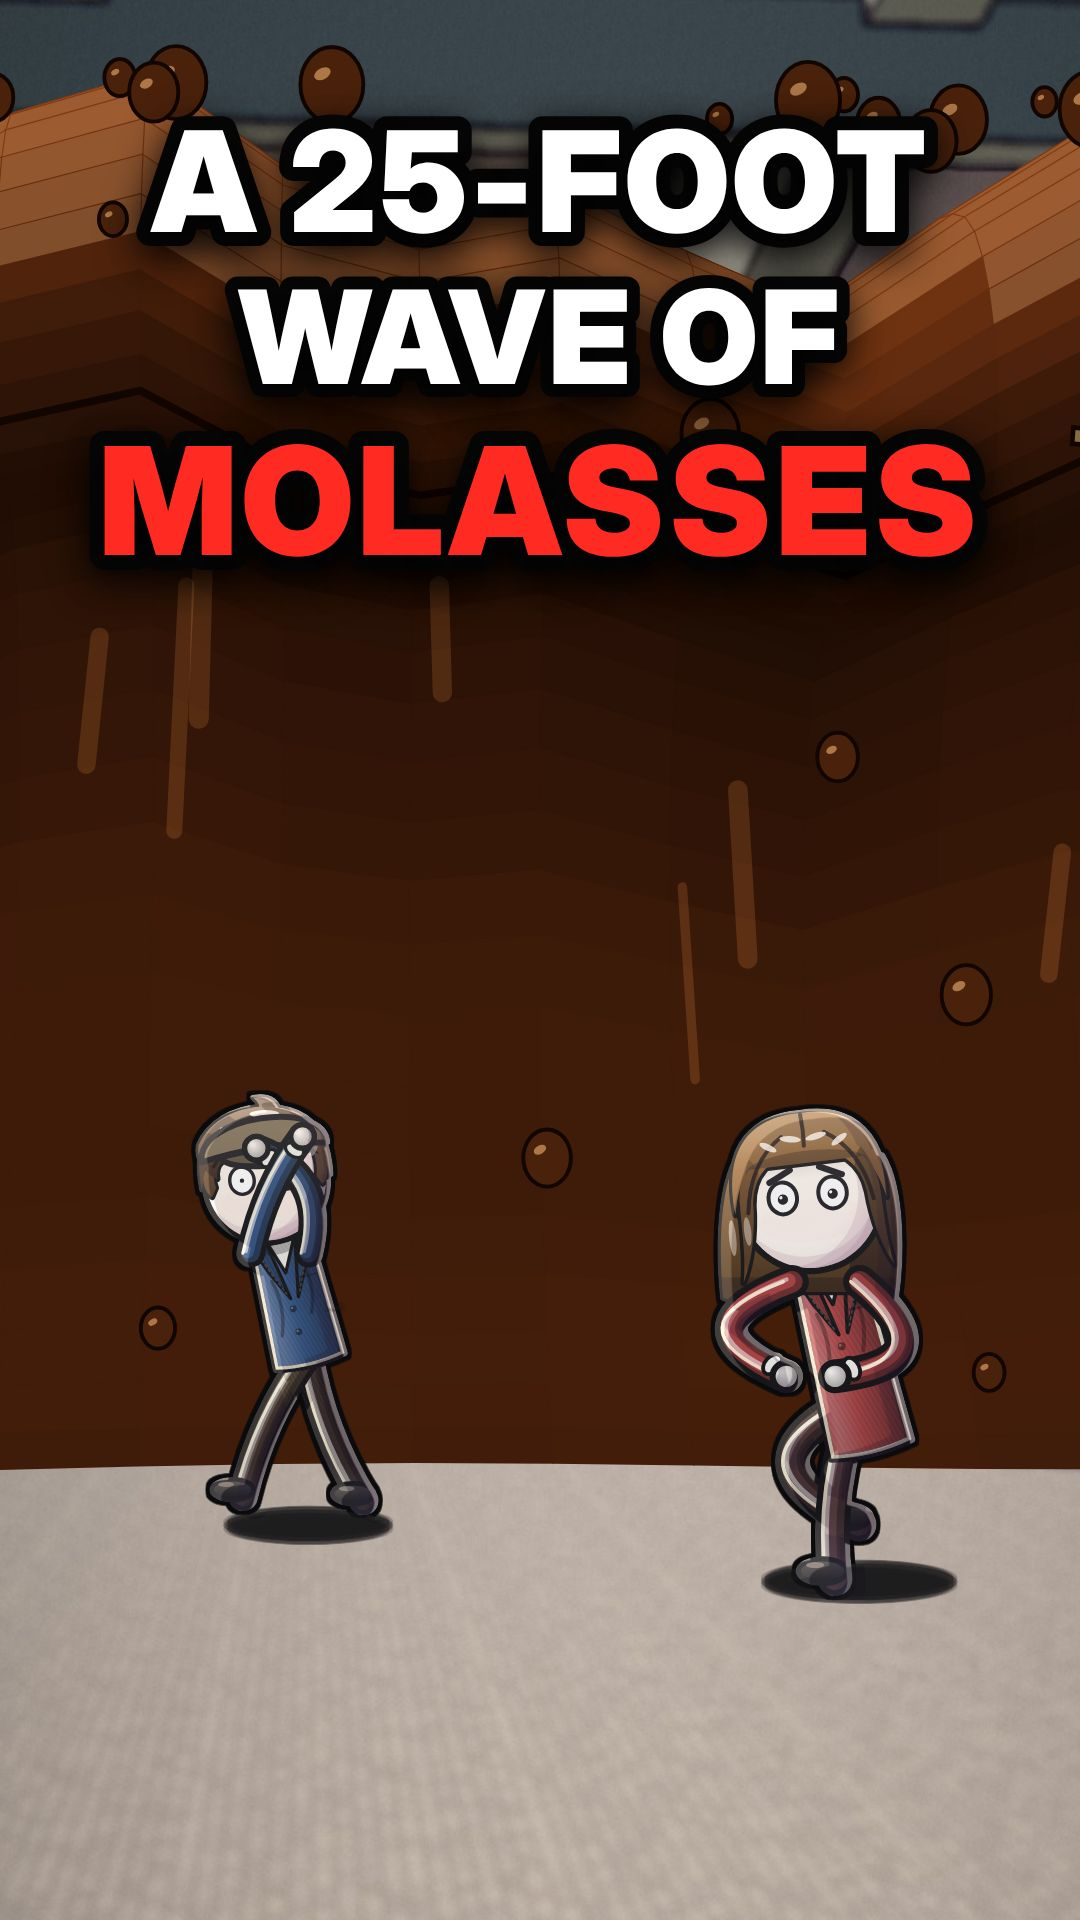
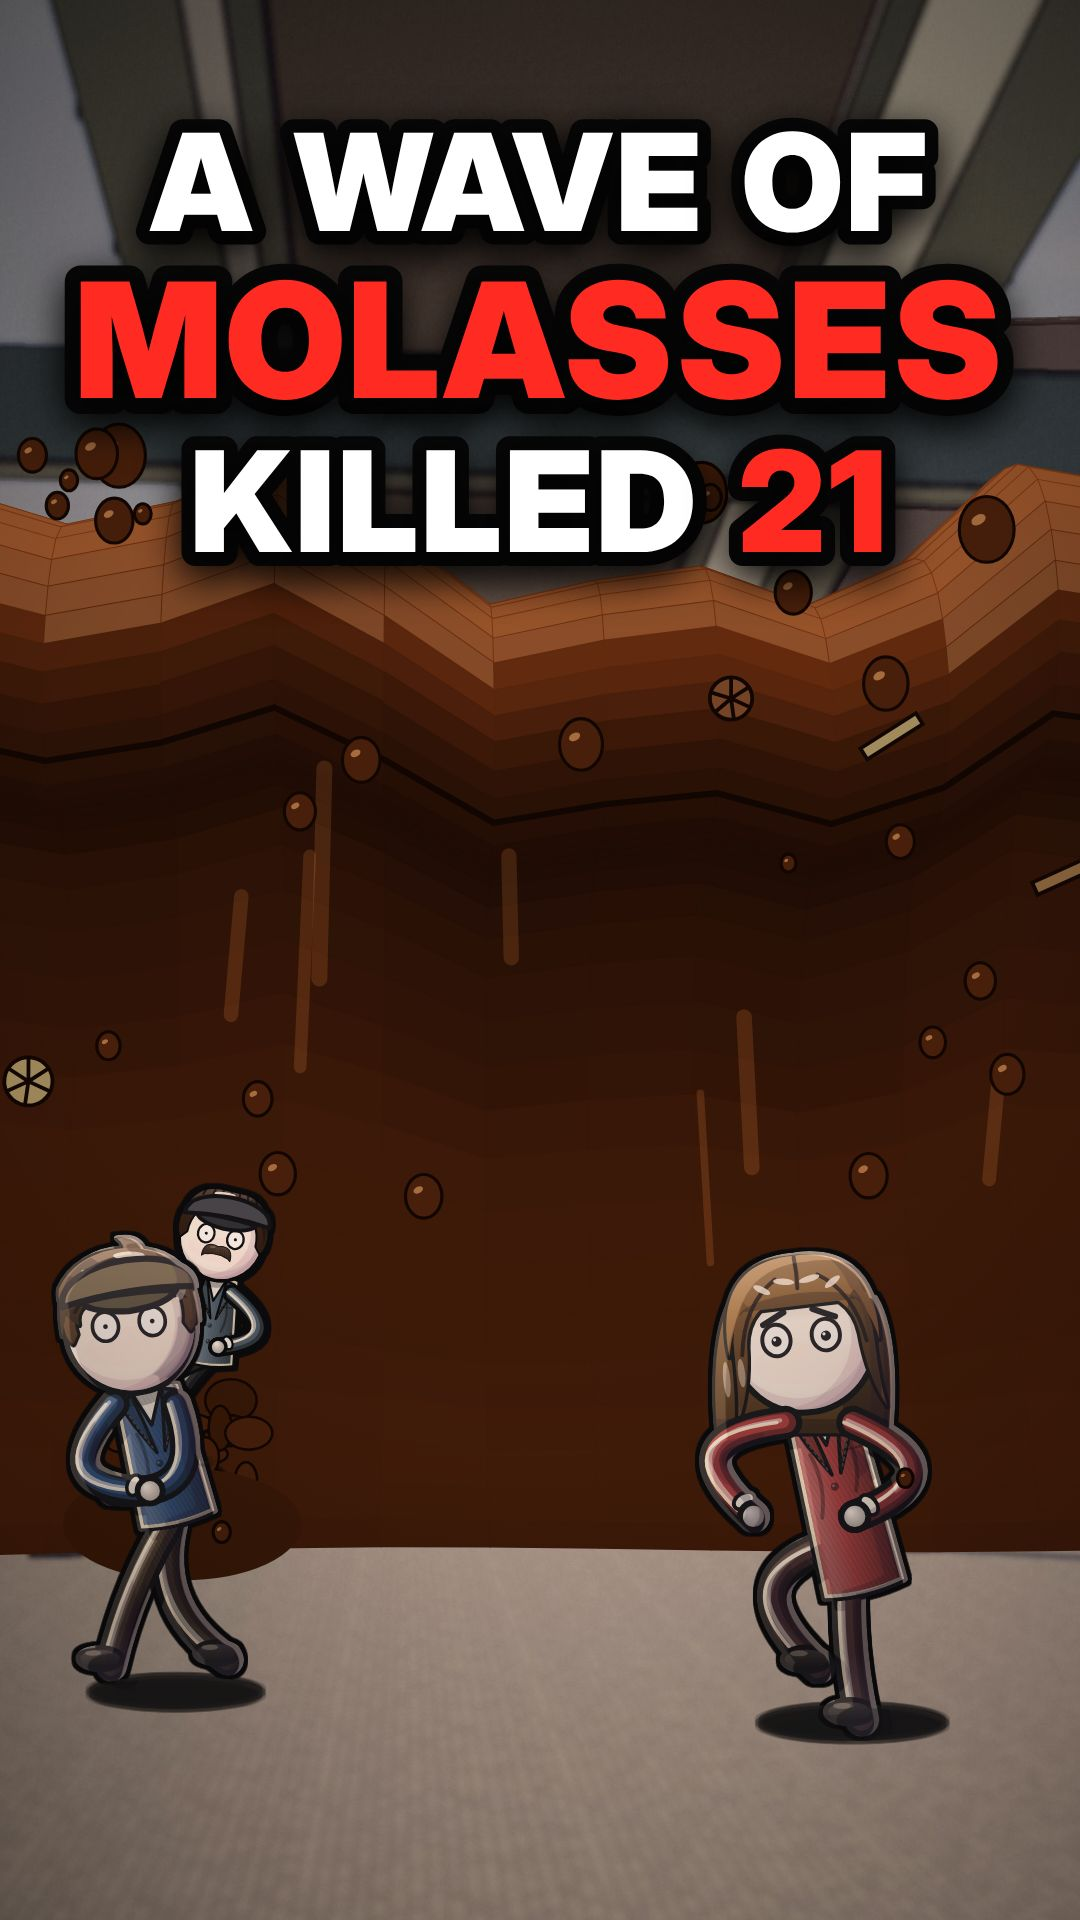
Molasses: realistic engulf/carried animation, new thumbnail
Claude-Session: https://claude.ai/code/session_01WmZXnGWPQwk3MGbLdxyYXF

diff --git a/storybit/projects/molasses/ml_shots.js b/storybit/projects/molasses/ml_shots.js
@@ -15,8 +15,9 @@ function wave3(c,t,fx,h,o={}){const za=o.za??-7,zb=o.zb??7,n=o.n??18,tail=o.tail
   const Q=[];const K=grid[0].length;for(let i=0;i<n;i++)for(let k=0;k<K-1;k++){const a=grid[i][k],b=grid[i][k+1],cc=grid[i+1][k+1],dd=grid[i+1][k];const m=[(a[0]+b[0]+cc[0]+dd[0])/4,(a[1]+b[1]+cc[1]+dd[1])/4,(a[2]+b[2]+cc[2]+dd[2])/4];
     const dist=Math.hypot(m[0]-cam[0],m[1]-cam[1],m[2]-cam[2]);const dx=b[0]-a[0],dy=b[1]-a[1];const L=Math.hypot(dx,dy)||1;const ny=dx/L;// up-facing → lit
     Q.push({pts:[a,b,cc,dd],dist,lit:ny,k,ht:m[1]/h});}
+  for(const a of (o.actors||[])){Q.push({actor:a,dist:Math.hypot(a.pos[0]-cam[0],a.pos[1]+1-cam[1],a.pos[2]-cam[2])-(a.bias||0)});}
   Q.sort((p,q)=>q.dist-p.dist);c.save();c.lineJoin='round';
-  for(const q of Q){const P=q.pts.map(p=>pp(p));if(P.some(p=>p.w<=0.2))continue;const l=clamp(0.35+q.lit*0.45+q.ht*0.35);const r=Math.round(lerp(30,128,l*l)),g=Math.round(lerp(12,58,l*l)),bb=Math.round(lerp(4,20,l*l));
+  for(const q of Q){if(q.actor){c.restore();q.actor.draw();c.save();c.lineJoin='round';continue;}const P=q.pts.map(p=>pp(p));if(P.some(p=>p.w<=0.2))continue;const l=clamp(0.35+q.lit*0.45+q.ht*0.35);const r=Math.round(lerp(30,128,l*l)),g=Math.round(lerp(12,58,l*l)),bb=Math.round(lerp(4,20,l*l));
     c.fillStyle=`rgb(${r},${g},${bb})`;c.strokeStyle=c.fillStyle;c.lineWidth=1.5;c.beginPath();P.forEach((p,i)=>i?c.lineTo(p.x,p.y):c.moveTo(p.x,p.y));c.closePath();c.fill();c.stroke();
     if(q.ht>0.85&&q.lit>0.2){c.fillStyle='rgba(255,210,150,0.22)';c.fill();}}
   // dark outline along the crest + glossy streaks on the face
@@ -32,6 +33,27 @@ function wave3(c,t,fx,h,o={}){const za=o.za??-7,zb=o.zb??7,n=o.n??18,tail=o.tail
 // someone caught in the wave: tumbling, carried along, half covered in molasses
 function swept(c,kind,x,y,z,t,o={}){const rot=o.rot??t*3.2;const r=who(c,kind,[x,y,z],BF('shock','up','scream',{seed:o.seed||1,rot,hf:[50+Math.sin(t*9)*20,-80],hb:[-50,-70+Math.cos(t*8)*20],run:1,ph:t*16,f:o.f||1}));
   const p=pp([x,y,z]);c.save();for(let k=0;k<6;k++){const a=k*1.1+t*2;c.fillStyle=k%2?'#4a220c':'#3a1a08';c.beginPath();c.ellipse(p.x+Math.cos(a)*60*p.s,p.y-40*p.s+Math.sin(a)*30*p.s,(40+k*6)*p.s,(26+k*3)*p.s,a,0,TAU);c.fill();}c.restore();return r;}
+// someone the wave catches from behind: runs → lifted, pitched forward, arms thrown up, splash climbing them → swallowed (front face covers them in the depth sort)
+function victimActor(c,kind,x,z,fx,t,o={}){const dx=fx-x;const k=clamp((dx+3.2)/3.2);const lift=k*k*1.3,pitch=k*0.9;
+  return {pos:[x,0,z],bias:0.3,draw:()=>{const r=who(c,kind,[x+k*1.2,lift,z],F(k>0?'shock':'wide','up','scream',{seed:o.seed||1,run:1,ph:t*(15-k*8),f:o.f??-1,rot:(o.f??-1)*-pitch*0.6+Math.sin(t*9)*0.08*k,
+      hf:undefined,hb:undefined}));
+    if(k>0){const g=pp([x,0,z]);for(let i=0;i<14;i++){const ph=(t*2+hash(i*3.1))%1;const bx=g.x+(hash(i)-0.5)*180*g.s,by=g.y-(ph*lift*170+ph*60)*g.s*1.0-k*40*g.s;c.fillStyle=i%2?'#4a220c':'#3a1a08';c.strokeStyle='#120602';c.lineWidth=2;
+        c.beginPath();c.ellipse(bx,by,(10+hash(i*5)*18)*g.s*(0.5+k),(9+hash(i*7)*14)*g.s*(0.5+k),0,0,TAU);c.fill();c.stroke();}
+      const sp=pp([x,lift*0.6,z]);c.fillStyle='#3a1a08';c.beginPath();c.ellipse(sp.x,sp.y+40*sp.s,(90+k*70)*sp.s,(30+k*50)*sp.s,0,0,TAU);c.fill();}}};}
+// after being swallowed: the head and a reaching hand break the surface on top of the crest, then go under again
+function crestRider(c,kind,fx,h,z,t,o={}){const cr=pp([fx-1.4,h*0.98,z]);if(cr.w<=0.2)return;const bob=Math.sin(t*5+(o.seed||0))*0.25;const r0=pp([fx-1.4,h*0.98-1.2+bob,z]);
+  c.save();c.beginPath();c.rect(-3000,-3000,8000,cr.y+3000+6*cr.s);c.clip();const r=who(c,kind,[fx-1.4,h*0.98-1.35+bob,z],F('shock','up','scream',{seed:o.seed||1,rot:Math.sin(t*3)*0.5+(o.rot||0),hf:[60,-160+Math.sin(t*9)*20],hb:[-50,-120]}));c.restore();
+  c.save();c.fillStyle='#4a220c';c.strokeStyle='#120602';c.lineWidth=2;for(let i=0;i<5;i++){const a=i*1.3+t*3;c.beginPath();c.ellipse(cr.x+Math.cos(a)*50*cr.s,cr.y+Math.sin(a)*10*cr.s,22*cr.s,12*cr.s,0,0,TAU);c.fill();c.stroke();}c.restore();return r;}
+// carried in the flood after the wave: body under the surface, tilted, drifting with the current; dunks under and claws back up; molasses coats head and arms
+function carried(c,kind,pos,surf,t,o={}){const sd=o.seed||1;const dunk=Math.max(0,Math.sin(t*1.6+sd*2))**6;const dd=lerp(o.d??0.85,1.3,dunk);const g=pp([pos[0],surf,pos[2]]);
+  c.save();c.beginPath();c.rect(-3000,-3000,8000,g.y+3000+2*g.s);c.clip();const r=who(c,kind,[pos[0],surf-dd,pos[2]],F(dunk>0.5?'squeeze':'shock','up','scream',{seed:sd,rot:(o.tilt??0.35)+Math.sin(t*2.2+sd)*0.18,f:o.f||1,
+    hf:[50+Math.sin(t*7+sd)*25,-175+Math.cos(t*6)*15],hb:[-60+Math.cos(t*8+sd)*20,-80+Math.sin(t*5)*25]}));c.restore();
+  if(r){c.fillStyle='rgba(58,26,8,0.85)';for(const hp of [r.hf,r.hb]){if(hp.y>g.y)continue;c.beginPath();c.ellipse(hp.x,hp.y+8*g.s,11*g.s,16*g.s,0,0,TAU);c.fill();}
+    if(r.hc&&r.hc.y<g.y){c.beginPath();c.ellipse(r.hc.x,r.hc.y-14*g.s,24*g.s,12*g.s,0,0,TAU);c.fill();for(let i=0;i<3;i++){const dl=((t*0.8+i*0.33)%1);c.beginPath();c.ellipse(r.hc.x-14*g.s+i*14*g.s,r.hc.y-6*g.s+dl*30*g.s,3*g.s,6*g.s,0,0,TAU);c.fill();}}}
+  c.save();const w=60*g.s;c.fillStyle='#2e1406';c.beginPath();c.ellipse(g.x,g.y+2*g.s,w*1.4,w*0.34,0,0,TAU);c.fill();c.strokeStyle='rgba(255,170,90,0.35)';c.lineWidth=3;c.beginPath();c.ellipse(g.x,g.y,w*1.4,w*0.34,0,Math.PI*1.1,Math.PI*1.9);c.stroke();
+  for(let i=0;i<4;i++){const ph=(t*1.2+i/4)%1;c.strokeStyle=`rgba(255,170,90,${0.3*(1-ph)})`;c.lineWidth=3;const tx=pp([pos[0]-0.4-ph*2.4,surf,pos[2]]);c.beginPath();c.moveTo(tx.x,tx.y-6*g.s);c.lineTo(tx.x-40*g.s,tx.y);c.stroke();}
+  if(dunk>0.45){c.save();c.translate(g.x+10*g.s,g.y);c.rotate(Math.sin(t*6)*0.2);c.strokeStyle='#0b0b0d';c.lineWidth=16*g.s;c.lineCap='round';seg(c,0,0,0,-90*g.s*dunk);c.strokeStyle='#3a1a08';c.lineWidth=11*g.s;seg(c,0,0,0,-90*g.s*dunk);c.fillStyle='#f2efe8';c.strokeStyle='#0b0b0d';c.lineWidth=3;c.beginPath();c.arc(0,-96*g.s*dunk,11*g.s,0,TAU);c.fill();c.stroke();c.fillStyle='rgba(58,26,8,0.8)';c.beginPath();c.arc(0,-92*g.s*dunk,8*g.s,0,Math.PI);c.fill();c.restore();}
+  if(dunk>0.3){for(let i=0;i<6;i++){const a=i/6*TAU+t*4;c.fillStyle='#4a220c';c.beginPath();c.arc(g.x+Math.cos(a)*w,g.y-Math.abs(Math.sin(a))*30*g.s*dunk,8*g.s,0,TAU);c.fill();}}c.restore();return r;}
 // ---------- props / ui ----------
 function tagC(c,x,y,s,k=1,col='#ffd23f'){if(k<=0)return;c.save();c.globalAlpha=clamp(k*2);c.translate(x,y);c.scale(lerp(0.7,1,eo(clamp(k))),lerp(0.7,1,eo(clamp(k))));c.font='900 40px "Inter Display"';c.letterSpacing='5px';const w=c.measureText(s).width+60;
   c.fillStyle='rgba(12,10,8,0.86)';c.beginPath();c.roundRect(-w/2,-38,w,76,38);c.fill();c.strokeStyle=col;c.lineWidth=4;c.stroke();c.fillStyle='#fff';c.textAlign='center';c.textBaseline='middle';c.fillText(s,0,3);c.restore();}
@@ -56,9 +78,9 @@ function tankCut(c,id,fill,t){// x-ray cut-out in the tank wall showing the mola
 const F=(e,b,m,o)=>BF(e,b,m,o);
 // =============== shots ===============
 // 0 · "A 25-foot wave just swallowed a city street…" people turn, run at camera; the wave rolls under the El and scoops up a man
-XM.hook=(c,t,u,d)=>{const h=HH(t,10);camAt(c,'ne_street',[0,3,-1],1.05+u*0.02,{ox:h.ox,oy:60+h.oy});const fx=-18+u*7;molassesSheet(c,t,-60,fx-1,-7,7,0.9,{edge:false});wave3(c,t,fx,7.6,{debris:6});
-  const ty=clamp((u-0.4)/0.6);swept(c,'dock2',fx+0.6,2.6+Math.sin(u*4)*0.6,-0.5,t,{seed:3});
-  cast(c,[['boy',[2-u*1.2,0,0.8],F(ty>0.5?'wide':'dot','up',ty>0.5?'scream':'o',{seed:1,run:ty>0?1:0,ph:t*15,f:-1,back:ty<0.3,hf:[40,-70],hb:[-40,-60]})],['dock',[6-u*1.3,0,-1.6],F('shock','up','scream',{seed:2,run:1,ph:t*14+1,f:-1})],['girl',[9-u*1.1,0,1.8],F('wide','worried','scream',{seed:4,run:1,ph:t*13+2,f:-1,hf:[30,-80],hb:[-30,-80]})]]);
+XM.hook=(c,t,u,d)=>{const h=HH(t,10);camAt(c,'ne_street',[0,3,-1],1.05+u*0.02,{ox:h.ox,oy:-50+h.oy});const fx=-14+u*6.5;molassesSheet(c,t,-60,fx-1,-7,7,0.9,{edge:false});
+  const A=[victimActor(c,'dock2',-2.5+u*1.1,-0.6,fx,t,{seed:3}),victimActor(c,'boy',3.2+u*1.4,0.9,fx,t,{seed:1}),victimActor(c,'dock',6.8+u*1.3,-1.8,fx,t,{seed:2}),victimActor(c,'girl',10+u*1.2,1.9,fx,t,{seed:4})];
+  wave3(c,t,fx,7.6,{debris:6,actors:A});if(fx>-1)crestRider(c,'dock2',fx,7.6,-0.6,t,{seed:3});
   c.restore();if(u<0.12)flash(c,1-u/0.12,'#000');lens(c,t,{v:0.6});};
 // 1 · "and it was made of syrup." a fat drip splats on a man's cap; he wipes it, sniffs his fingers
 XM.syrup=(c,t,u,d)=>{camAt(c,'ne_low',[2,1.6,0],1.55,{oy:-80});const P=[2,0,0];const fall=clamp(u/0.45);const r=who(c,'dock',P,F(fall<1?'dot':'wide','up',fall<1?'flat':'o',{seed:5,hf:u>0.6?[16,-150]:[14,90],hb:[-12,92],look:[0,-3]}));
@@ -109,8 +131,10 @@ XM.split=(c,t,u,d)=>{const h=HH(t,14);camAt(c,'ne_tank',[-24,7,-2],1.0,{ox:h.ox,
   for(let i=0;i<40;i++){const ph=(t*1.2+hash(i))%1,y=lerp(A.y,B.y,hash(i*3)*k);const x=A.x+(hash(i*5)-0.3)*30;c.fillStyle='#4a220c';c.strokeStyle='#120602';c.lineWidth=2;const bx=x+ph*400*(hash(i*7)+0.3),by=y+ph*ph*600-ph*120;c.beginPath();c.ellipse(bx,by,(16+hash(i)*26)*(0.4+ph),(14+hash(i)*20)*(0.4+ph),0,0,TAU);c.fill();c.stroke();}
   c.restore();flash(c,clamp(1-u/0.2)*0.6);lens(c,t,{v:0.65});};
 // 13 · "And a brown wave, 25 feet tall, rushed out at 35 miles per hour." side view: the wave crosses the street, a man for scale; height + speed
-XM.wave=(c,t,u,d)=>{const h=HH(t,9);camAt(c,'ne_street',[0,3,-1],1.04,{ox:h.ox,oy:60+h.oy});const fx=-30+u*5;molassesSheet(c,t,-60,fx-1,-7,7,0.9,{edge:false});wave3(c,t,fx,7.6,{debris:5});
-  const run=clamp((u-1.6)/0.3);cast(c,[['dock2',[4-run*(u-1.6)*1.5,0,0.4],F(run>0?'shock':'wide','up',run>0?'scream':'o',{seed:6,run:run>0?1:0,ph:t*15,f:-1,back:run<=0,hf:run>0?undefined:[30,-60],hb:run>0?undefined:[-30,-60]})],['girl',[7-run*(u-1.6)*1.4,0,-2.2],F(run>0?'shock':'wide','up','scream',{seed:9,run:run>0?1:0,ph:t*14,f:-1,back:run<=0})]]);
+XM.wave=(c,t,u,d)=>{const h=HH(t,9);camAt(c,'ne_street',[0,3,-1],1.04,{ox:h.ox,oy:60+h.oy});const fx=-22+u*5.2;molassesSheet(c,t,-60,fx-1,-7,7,0.9,{edge:false});
+  const run=clamp((u-1.4)/0.3),rx=run*(u-1.4)*1.5;const A=[victimActor(c,'dock2',3+rx,0.4,fx,t,{seed:6}),victimActor(c,'girl',5.5+rx,-2.2,fx,t,{seed:9})];
+  if(run<=0){A[0]={pos:[3,0,0.4],draw:()=>who(c,'dock2',[3,0,0.4],F('wide','up','o',{seed:6,back:1,hf:[30,-60],hb:[-30,-60]}))};A[1]={pos:[5.5,0,-2.2],draw:()=>who(c,'girl',[5.5,0,-2.2],F('wide','up','o',{seed:9,back:1}))};}
+  wave3(c,t,fx,7.6,{debris:5,actors:A});if(fx>3.5)crestRider(c,'dock2',fx,7.6,0.4,t,{seed:6});
   const top=pp([fx-1.2,7.6,3]),bot=pp([fx-1.2,0,3]);c.save();c.strokeStyle='#ffd23f';c.lineWidth=6;seg(c,top.x+40,top.y,top.x+40,bot.y);seg(c,top.x+20,top.y,top.x+60,top.y);seg(c,bot.x+20,bot.y,bot.x+60,bot.y);c.restore();c.restore();
   tagC(c,300,470,'25 FEET',clamp((t-wb('25',35))/0.3));bigCard(c,700,470,clamp((t-wb('35',37.5))/0.3),'35','MILES PER HOUR');FX.speed=0.35;lens(c,t);};
 // 14 · "It smashed buildings," the wave slams a frame house; planks burst
@@ -123,9 +147,14 @@ XM.el=(c,t,u,d)=>{const h=HH(t,10);camAt(c,'ne_rail',[0,6.2,-0.5],1.05,{ox:h.ox,
   const tc=pp([2,7.2-b*1.6,-0.6]);c.save();c.translate(tc.x,tc.y);c.rotate(-0.08-b*0.25+Math.sin(t*4)*0.02);c.fillStyle='#7a2a22';c.strokeStyle='#0b0b0d';c.lineWidth=5;const s=tc.s;c.fillRect(-260*s,-150*s,520*s,150*s);c.strokeRect(-260*s,-150*s,520*s,150*s);c.fillStyle='#f4e8c8';for(let i=0;i<6;i++)c.fillRect((-230+i*80)*s,-120*s,50*s,50*s);c.restore();
   c.restore();soundFx(c,540,1500,'CREEEAK',u/1.6,0.05,'#fff');lens(c,t,{v:0.6});};
 // 16 · "and swept people and horses away." people + a horse tumble along in the flood
-XM.swept=(c,t,u,d)=>{const h=HH(t,10);camAt(c,'ne_sideHi',[1,1.2,1],1.15,{ox:h.ox,oy:h.oy});const fx=40;molassesSheet(c,t,-40,30,-7,8.5,1.0,{edge:false});
-  const hp=pp([-3.5+u*2,1.2+Math.sin(u*3)*0.2,-1]);c.save();c.translate(hp.x,hp.y);c.rotate(-0.9+Math.sin(t*2)*0.5);horse(c,0,0,hp.s*1.1,t);c.restore();c.save();c.fillStyle='#3a1a08';for(let k=0;k<5;k++){c.beginPath();c.ellipse(hp.x-120*hp.s+k*60*hp.s,hp.y+60*hp.s,70*hp.s,30*hp.s,0,0,TAU);c.fill();}c.restore();
-  for(let i=0;i<18;i++){const z=-6+hash(i*3)*16,x=((hash(i)*30+t*4)%30)-14;const a=pp([x,1.0,z]),b=pp([x+2.5,1.0,z]);c.strokeStyle='rgba(255,170,90,0.25)';c.lineWidth=5*a.s;c.lineCap='round';seg(c,a.x,a.y,b.x,b.y);}swept(c,'girl',-1+u*2.5,1.2+Math.sin(u*4)*0.3,3,t,{seed:4,rot:t*2.6});swept(c,'dock',-2+u*2,1.4+Math.cos(u*3)*0.3,0.5,t,{seed:5,rot:-t*2.2});swept(c,'boy',4+u*2.4,1.5,-2.5,t,{seed:3,rot:t*3.5});c.restore();lens(c,t,{v:0.6});};
+XM.swept=(c,t,u,d)=>{const h=HH(t,10);camAt(c,'ne_sideHi',[0.6+u*0.9,1.4,1.4],1.3,{ox:h.ox,oy:h.oy-60});const S=1.4;molassesSheet(c,t,-40,30,-7,8.5,S,{edge:false});
+  for(let i=0;i<26;i++){const z=-6+hash(i*3)*15,x=((hash(i)*34+t*5)%34)-16;const a=pp([x,S,z]),b=pp([x+2.8,S,z]);c.strokeStyle='rgba(255,170,90,0.22)';c.lineWidth=5*a.s;c.lineCap='round';seg(c,a.x,a.y,b.x,b.y);}
+  for(let i=0;i<6;i++){const z=-5+i*2.3,x=((hash(i*7)*30+t*5)%30)-12;const b=pp([x,S,z]);c.save();c.translate(b.x,b.y);c.rotate(Math.sin(t+i));c.fillStyle=['#8a6a44','#6a4a2a','#a8986a'][i%3];c.strokeStyle='#120602';c.lineWidth=3;c.fillRect(-60*b.s,-8*b.s,120*b.s,16*b.s);c.strokeRect(-60*b.s,-8*b.s,120*b.s,16*b.s);c.restore();}
+  const L=[['horse',[-3.5+u*1.0,0,-2.5]],['dock',[-1.5+u*1.1,0,0.8],{seed:5,tilt:-0.4}],['girl',[0.6+u*1.2,0,3.2],{seed:4,d:0.8,tilt:0.5}],['boy',[2.6+u*1.0,0,-1.2],{seed:3,d:0.9}]].sort((a,b)=>a[1][2]-b[1][2]);
+  for(const [k,pos,o] of L){if(k==='horse'){const p=pp([pos[0],S,pos[2]]);c.save();c.beginPath();c.rect(-3000,-3000,8000,p.y+3000);c.clip();c.translate(p.x,p.y-20*p.s+Math.sin(t*2.5)*14*p.s);c.rotate(-0.5+Math.sin(t*1.8)*0.25);horse(c,0,0,p.s*1.15,t*0.6);c.restore();
+      c.fillStyle='#2e1406';c.beginPath();c.ellipse(p.x,p.y,220*p.s,40*p.s,0,0,TAU);c.fill();for(let i=0;i<8;i++){const a=i/8*TAU+t*3;c.fillStyle='#4a220c';c.beginPath();c.arc(p.x+Math.cos(a)*200*p.s,p.y-Math.abs(Math.sin(a+t))*30*p.s,10*p.s,0,TAU);c.fill();}}
+    else carried(c,k,pos,S,t,o);}
+  c.restore();lens(c,t,{v:0.6});};
 // 17 · "But here's the twist:" freeze, desaturate, stamp
 XM.twist=(c,t,u,d)=>{XM.swept(c,LT(17)+1.4,1.4,2.2);c.save();c.globalCompositeOperation='saturation';c.fillStyle='rgba(0,0,0,0.75)';c.fillRect(0,0,W,H);c.restore();stamp(c,LT(18)+0.1,t,'TWIST',540,520,{col:'#ffd23f',size:120});};
 // 18 · "the wave wasn't the worst part." aerial: the whole North End drowned in brown, the tank burst

diff --git a/storybit/projects/molasses/cov_ml.js b/storybit/projects/molasses/cov_ml.js
@@ -1,5 +1,7 @@
-T=2.2;const t=2.2;window.SS=1;
-camAt(c,'ne_street',[3,2.2,-0.5],1.55,{oy:-60});molassesSheet(c,t,-60,-1,-7,7,0.9,{edge:false});wave3(c,t,-1,7.6,{debris:6});
-cast(c,[['boy',[3.5,0,0.6],BF('shock','up','scream',{run:1,ph:2,f:-1,seed:1,hf:[40,-90],hb:[-40,-80]})],['girl',[6,0,-1.6],BF('wide','worried','scream',{run:1,ph:3,f:-1,seed:4})]]);c.restore();
-c.save();c.shadowColor='rgba(0,0,0,0.8)';c.shadowBlur=40;c.shadowOffsetY=12;
-txt(c,'A 25-FOOT',540,190,140,'#ffffff',{sw:28,ls:3});txt(c,'WAVE OF',540,345,130,'#ffffff',{sw:26,ls:3});txt(c,'MOLASSES',540,510,150,'#ff2a22',{sw:30,ls:4});c.restore();
+T=2.0;const t=2.0;window.SS=1;
+camAt(c,'ne_street',[6,3.2,0],1.25,{oy:-160});const fx=-1.5;molassesSheet(c,t,-60,fx-1,-7,7,0.9,{edge:false});
+const A=[victimActor(c,'dock2',-3.4,-1.4,fx,t,{seed:3}),victimActor(c,'dock',-0.6,2.2,fx,t,{seed:7}),{pos:[7.4,0,1.6],draw:()=>who(c,'boy',[7.4,0,1.6],F('shock','up','scream',{seed:1,run:1,ph:2.2,f:-1}))},{pos:[8.6,0,-1.2],draw:()=>who(c,'girl',[8.6,0,-1.2],F('wide','worried','scream',{seed:4,run:1,ph:3.4,f:-1}))}];
+wave3(c,t,fx,7.6,{debris:8,actors:A});c.restore();
+c.save();c.globalCompositeOperation='multiply';c.fillStyle='rgba(200,120,70,0.18)';c.fillRect(0,0,W,H);c.restore();vignette(c,0.5);
+const line=(parts,y,size)=>{c.save();c.font=`900 ${size}px "Inter Display"`;c.letterSpacing='3px';const ws=parts.map(p=>c.measureText(p[0]).width),sp=size*0.28,tot=ws.reduce((a,b)=>a+b,0)+sp*(parts.length-1);let x=540-tot/2;parts.forEach((p,i)=>{txt(c,p[0],x+ws[i]/2,y,size,p[1],{sw:size*0.2,ls:3});x+=ws[i]+sp;});c.restore();};
+c.save();c.shadowColor='rgba(0,0,0,0.85)';c.shadowBlur=40;c.shadowOffsetY=12;line([['A','#fff'],['WAVE','#fff'],['OF','#fff']],190,135);line([['MOLASSES','#ff2a22']],350,160);line([['KILLED','#fff'],['21','#ff2a22']],510,140);c.restore();
